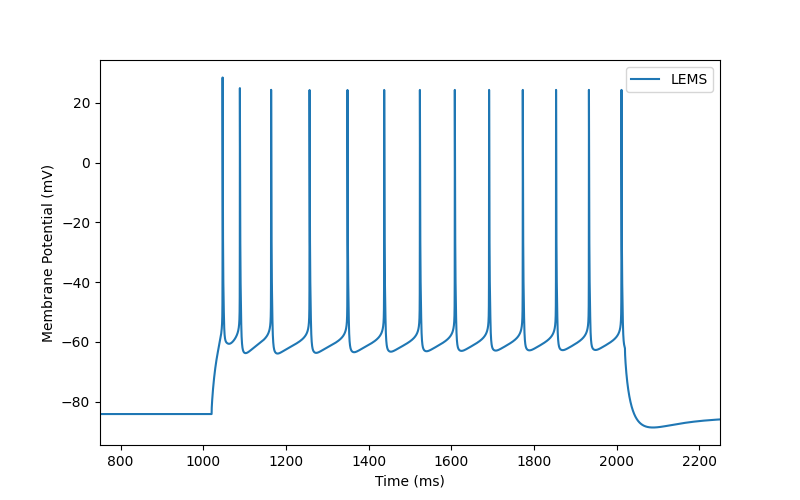
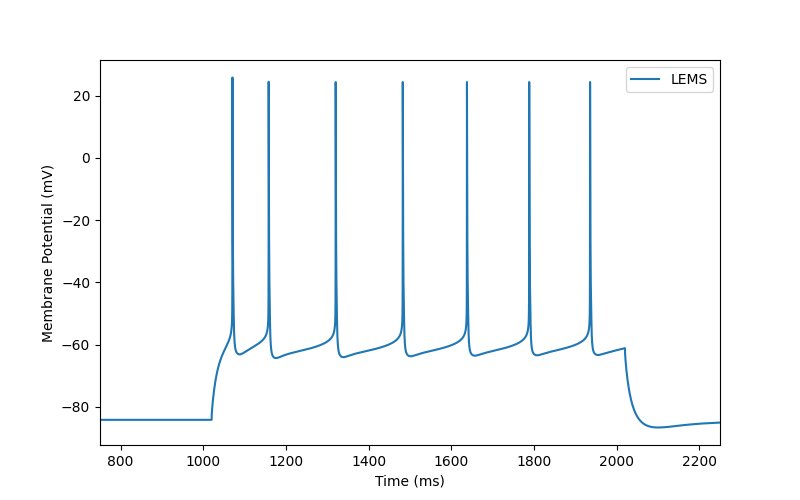
modified sweep and updated tests and figs for 486556811

diff --git a/CellTypesDatabase/data/data_helper.py b/CellTypesDatabase/data/data_helper.py
@@ -16,8 +16,8 @@ TEST_CURRENTS = {}
 DATASET_TARGET_SWEEPS[486111903] = [35, 37, 41, 44, 51, 54, 57]
 # Perisomatic biophys model: http://celltypes.brain-map.org/neuronal_model/download/486556811
 MODEL_IDS[486111903] = 486556811
-TEST_SWEEP[486111903] = 54
-TEST_CURRENTS[486556811] = 290
+TEST_SWEEP[486111903] = 51
+TEST_CURRENTS[486556811] = 230
 
 DATASET_TARGET_SWEEPS[480169178] = [24, 26, 31, 33, 38, 40, 42]
 DATASET_TARGET_SWEEPS[480351780] = [24, 33, 34, 47, 42, 44, 46]
